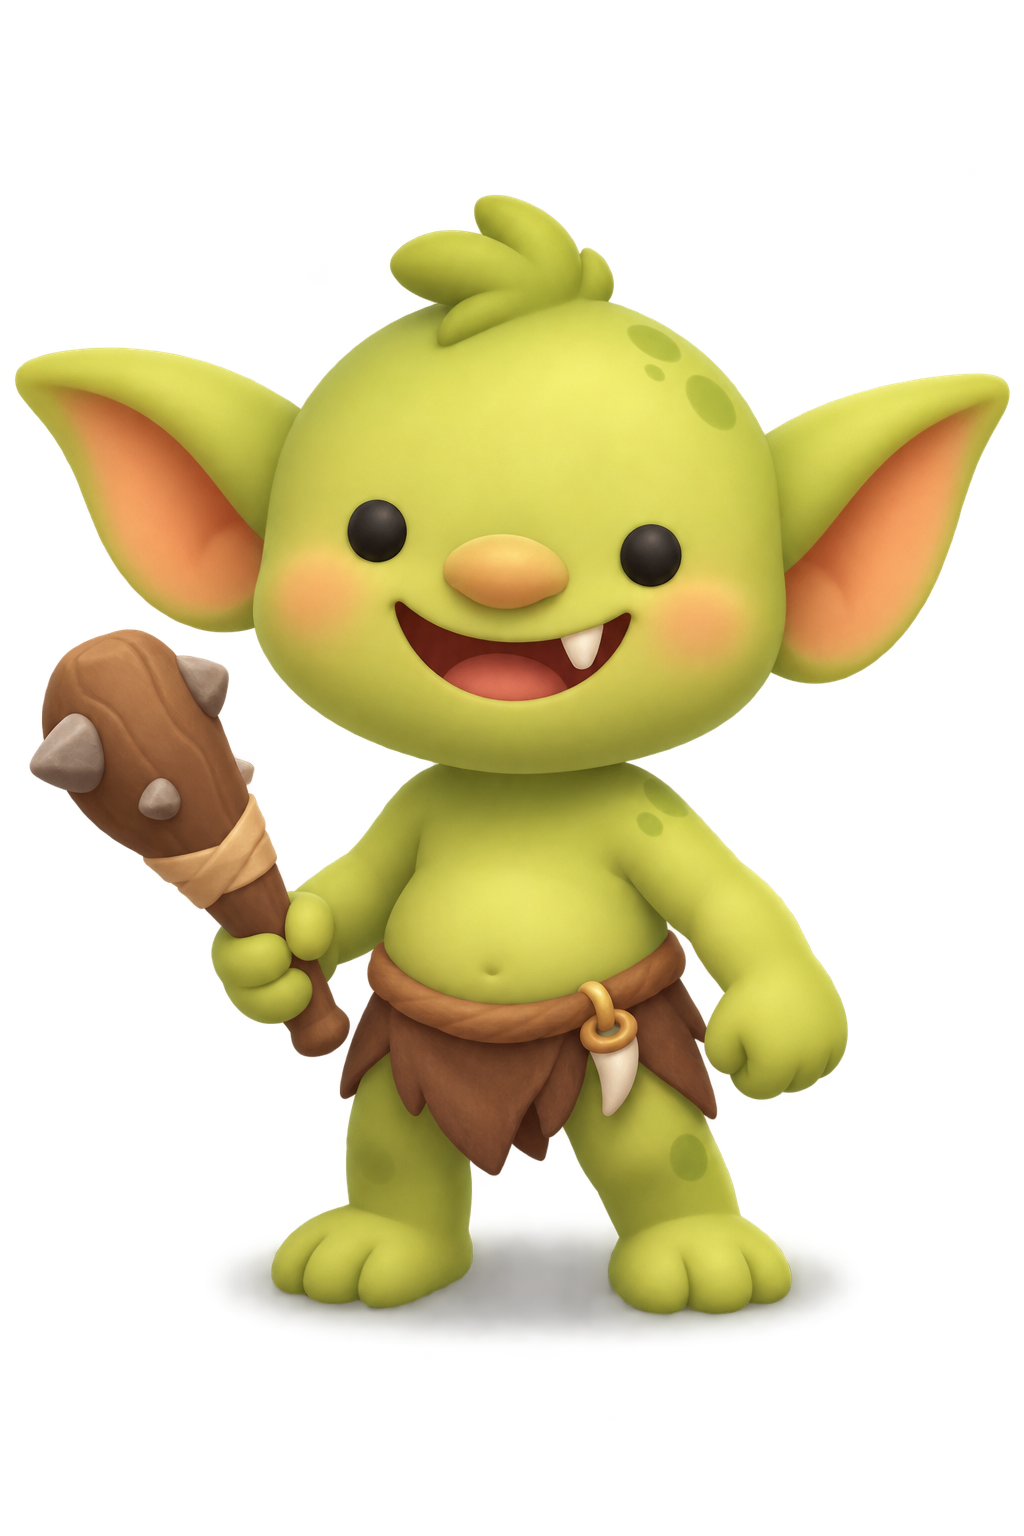
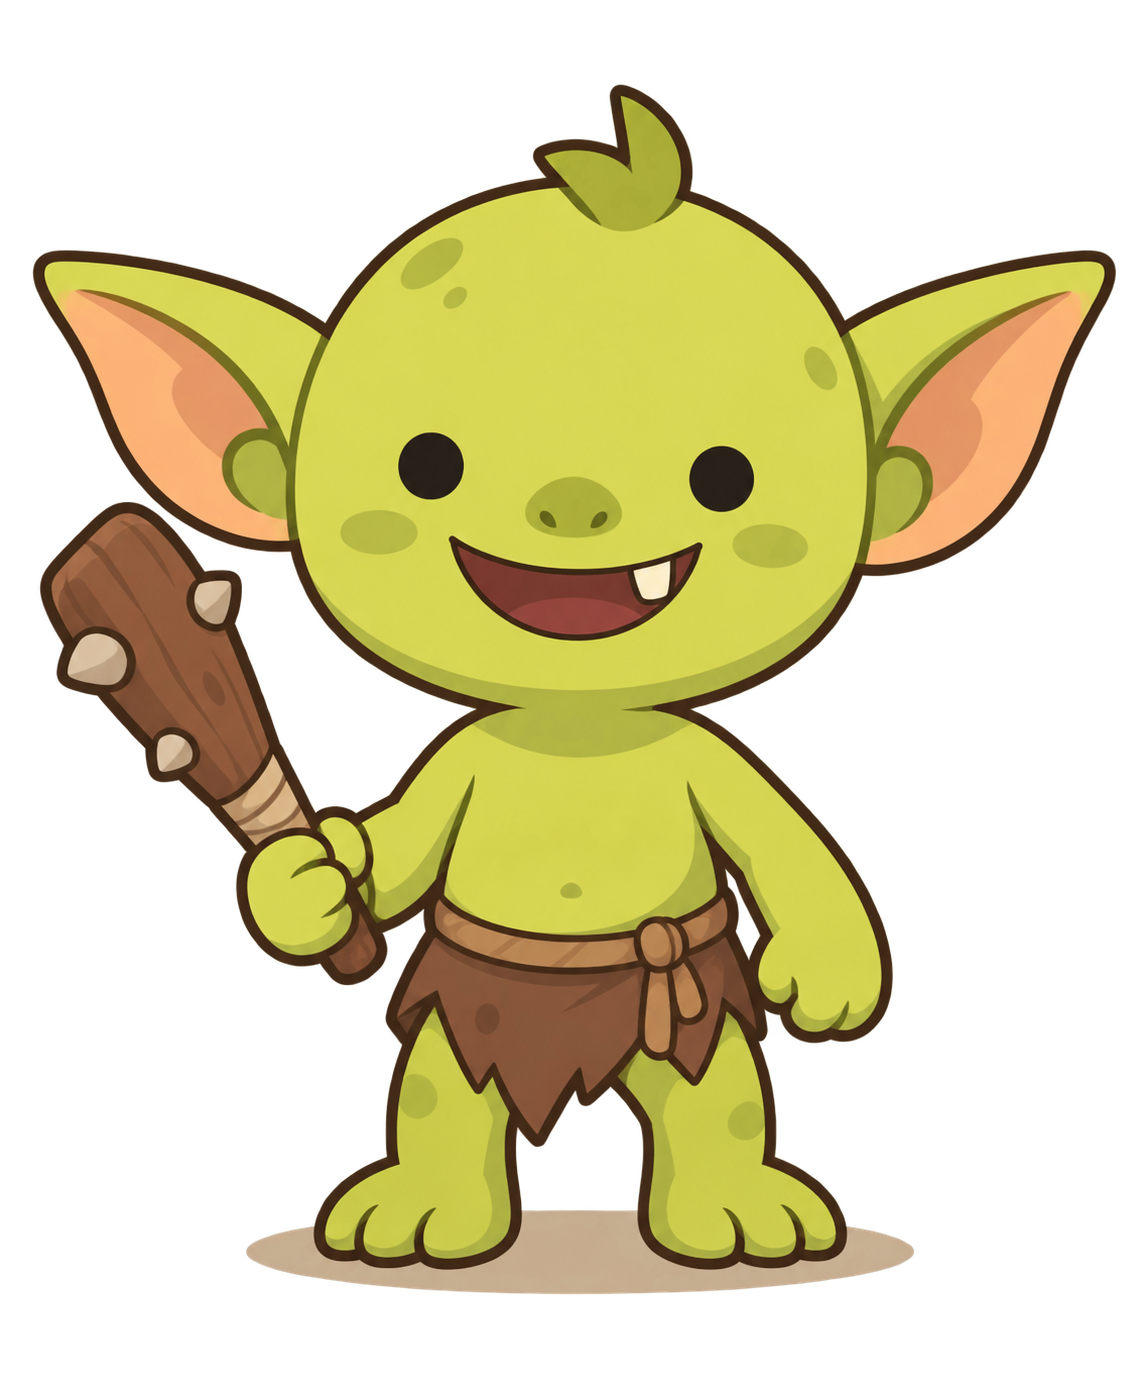
art: v3.2角色描边+更简约——哥布林三版重生成（用户纠偏：需描边/要简约），拼图验收均9分

diff --git a/.agents/skills/mh-art/scripts/gen_asset.py b/.agents/skills/mh-art/scripts/gen_asset.py
@@ -37,21 +37,18 @@ ARCHIVE_ROOT = os.path.join(REVIEW_ROOT, "_archived")
 ASSETS_ROOT = os.path.join("docs", "design", "assets")
 
 # ---- 项目规格表（与 SKILL.md 保持同步）----
-# 风格 v3.1（2026-08-25，已拍板）：v1 暗黑厚涂、v2/v2.1 温暖绘本水彩相继被否决；
-# v3 扁平卡通首批样张被指"人物和卡牌不像"（参照 Unity Asset Store「2D Characters -
-# Casual Monsters」LAYERLAB）。与参考图逐项对比后修正三处病根：①v3 生成带粗深描边
-# →参考无描边，靠柔和暗部分界；②v3 硬边两色阶赛璐璐→参考是柔和渐变+浅椭圆投影
-# （软笔刷体积感，2-3 个明度）；③v3 饱和度高明度低→参考中饱和、高明度、清新淡彩。
-# 造型基准：2-2.5 头身、豆形身体、短粗四肢、极简面部。功能色板保留。
-STYLE_BASE = ("smooth soft-shaded 2D cartoon game art like premium casual mobile-game asset packs, "
-              "clean rounded shapes with NO outline strokes (edges separated by soft shading only), "
-              "soft airbrushed gradients giving gentle rounded volume, subtle ambient occlusion, "
-              "2-3 soft value steps per shape, soft elliptical drop shadow under objects, "
-              "fresh airy palette: pastel mint-teal, cream and light warm brown with muted gold accents, "
-              "medium saturation and light values, low contrast, memory-palace scholar fantasy theme, "
-              "cute friendly casual mood, "
-              "no outlines, no cel-shaded hard shadow edges, no watercolor, no painterly texture, "
-              "no gritty texture, no realistic rendering, no dark heavy colors, no hardcore mood")
+# 风格 v3.2（2026-08-25，用户直接反馈修正）：v3.1 三版哥布林被用户点评
+# "不够简约，角色需要描边"——推翻此前视觉模型"参考无描边"的读图结论（模型读图
+# 只作参考，用户的眼是标准）。v3.2 两处修正：①角色/图标/卡面主体要有干净、
+# 粗细一致的深色细描边；②整体更简约——细节再砍、每形状少量平色。
+# 保留：软渐变阴影、清新中饱和高明度、2-2.5 头身豆形身体、点眼单小方牙 DNA。
+STYLE_BASE = ("clean simple 2D cartoon game art for casual mobile games, big rounded shapes, cute "
+              "stylized proportions, very minimal design with only a few details, fresh airy "
+              "palette: pastel mint-teal, cream and light warm brown with muted gold accents, "
+              "medium saturation and light values, soft simple shading, memory-palace scholar "
+              "fantasy theme, friendly casual mood, "
+              "no watercolor, no painterly texture, no realistic rendering, no dark heavy "
+              "colors, no complex details, no busy props")
 
 # 发布目录（实际应用区）：扁平无子目录——文件名自带类别前缀（prefix 字段），
 # 发布时按前缀校验命名规范；仅 docs 文档仓库适用，勿再按类型嵌套。
@@ -61,56 +58,61 @@ SPECS = {
                  style="vertical card illustration presented like a game-asset showcase: one cute "
                        "clear focal subject standing centered on a simple soft ground, plain "
                        "pastel mint-cream backdrop with a soft elliptical shadow under the subject, "
-                       "minimal simple props, lots of clean empty space, no text, no watermark"),
+                       "subject drawn with a clean thin dark outline and very few details, minimal "
+                       "simple props, lots of clean empty space, no text, no watermark"),
     "cardback": dict(size="1024x1536", transparent=False, resize=None,
                      review="cardbacks", prefix="cardback_",
                      style="full playing-card back design filling the whole canvas, symmetric cute "
-                           "emblem at center drawn with smooth soft shading and no outlines, chunky "
-                           "rounded border with simple rounded ornaments, soft gradient color field, "
-                           "clean smooth finish, no text, no watermark"),
+                           "emblem at center with a clean thin dark outline, chunky rounded border "
+                           "with simple rounded ornaments, soft gradient color field, very minimal "
+                           "detail, clean smooth finish, no text, no watermark"),
     "icon": dict(size="1024x1024", transparent=True, resize="256x256",
                  review="icons", prefix="icon_",
-                 style="smooth soft-shaded casual game icon, single object only, centered, bold rounded "
-                       "silhouette instantly readable at small size, soft gradient shading, plain "
-                       "transparent background, no text, no watermark"),
+                 style="simple casual game icon, single object only, centered, bold rounded "
+                       "silhouette instantly readable at small size, clean thin dark outline, "
+                       "few flat colors with soft simple shading, plain transparent background, "
+                       "no text, no watermark"),
     "relic": dict(size="1024x1024", transparent=True, resize="256x256",
                   review="relics", prefix="relic_",
-                  style="smooth soft-shaded casual game icon of a single small magical artifact, "
-                        "centered, cute stylized prop with bold rounded silhouette, soft gradient "
-                        "shading, no outlines, plain transparent background, no text, no watermark"),
+                  style="simple casual game icon of a single small magical artifact, centered, "
+                        "cute stylized prop with bold rounded silhouette, clean thin dark outline, "
+                        "few flat colors with soft simple shading, plain transparent background, "
+                        "no text, no watermark"),
     "potion": dict(size="1024x1024", transparent=True, resize="256x256",
                    review="potions", prefix="potion_",
-                   style="smooth soft-shaded casual game icon of a single cute alchemy potion bottle, "
-                         "centered, bold rounded silhouette, soft glossy gradient shading, no "
-                         "outlines, plain transparent background, no text, no watermark"),
+                   style="simple casual game icon of a single cute alchemy potion bottle, centered, "
+                         "bold rounded silhouette, clean thin dark outline, few flat colors with "
+                         "soft simple shading, plain transparent background, no text, no watermark"),
     "node": dict(size="1024x1024", transparent=True, resize="256x256",
                  review="map-nodes", prefix="node_",
-                    style="smooth soft-shaded casual map node emblem, single centered object, bold "
-                          "rounded shape, soft gradient shading, no outlines, plain transparent "
+                    style="simple casual map node emblem, single centered object, bold rounded "
+                          "shape, clean thin dark outline, few flat colors, plain transparent "
                           "background, no text, no watermark"),
     "enemy": dict(size="1024x1024", transparent=True, resize=None,
                   review="enemies", prefix="enemy_",
-                  style="single cute casual-cartoon fantasy monster like a premium asset-pack "
-                        "showcase render, full body, centered, facing viewer, 2 to 2.5 head-heights "
-                        "tall, bean-shaped rounded body, short stubby limbs, very simple face, "
-                        "smooth soft-shaded volume with NO outlines, soft elliptical shadow under "
-                        "feet, plain transparent background, no text, no watermark"),
+                  style="single cute simple cartoon fantasy monster, full body, centered, facing "
+                        "viewer, 2 to 2.5 head-heights tall, bean-shaped rounded body, stubby "
+                        "limbs, very simple dot eyes, extremely minimal design with only a few "
+                        "flat colors, clean thin dark outline around the whole character with "
+                        "consistent line weight, soft simple shading, soft elliptical ground "
+                        "shadow, plain transparent background, no text, no watermark"),
     "portrait": dict(size="1024x1536", transparent=True, resize=None,
                      review="portraits", prefix="portrait_",
-                     style="full body cute casual-cartoon character like a premium asset-pack "
-                           "showcase render, centered, facing viewer, 2 to 2.5 head-heights tall, "
-                           "bean-shaped rounded body, short stubby limbs, very simple face, smooth "
-                           "soft-shaded volume with NO outlines, transparent background, "
+                     style="full body cute simple cartoon character, centered, facing viewer, "
+                           "2 to 2.5 head-heights tall, bean-shaped rounded body, stubby limbs, "
+                           "very simple dot eyes, extremely minimal design with only a few flat "
+                           "colors, clean thin dark outline around the whole character with "
+                           "consistent line weight, soft simple shading, transparent background, "
                            "no text, no watermark"),
     "background": dict(size="2048x1152", transparent=False, resize="1920x1080",
                        review="backgrounds", prefix="bg_",
-                       style="wide soft-shaded cartoon scene for a casual game, simple stylized "
-                             "environment built from big rounded shapes with smooth soft gradients, "
-                             "fresh airy palette, gentle depth, empty center area for UI, "
-                             "no characters, no text, no watermark"),
+                       style="wide simple cartoon scene for a casual game, very minimal, big "
+                             "rounded shapes in few flat colors with soft gradients, fresh airy "
+                             "palette, gentle depth, large empty areas, empty center for UI, "
+                             "no outlines on scenery, no characters, no text, no watermark"),
     "texture": dict(size="1024x1024", transparent=False, resize="256x256",
                     review="textures", prefix="texture_",
-                    style="seamless tileable soft cartoon texture, evenly lit, no vignette, "
+                    style="seamless tileable simple cartoon texture, evenly lit, no vignette, "
                           "no shadows at edges, no text, no watermark"),
 }
 

diff --git a/.agents/skills/mh-art/SKILL.md b/.agents/skills/mh-art/SKILL.md
@@ -50,16 +50,16 @@ description: 《记忆勇者》设计文档仓库专属 AI 生图——按 docs/
 
 源自 [09-UI设计规范 §1](../../../docs/design/09-UI设计规范.md)「记忆殿堂」视觉定位：记忆殿堂主题 + 古金点缀。所有 prompt 以此为底，保证新旧资产同风格。
 
-> **风格 v3.1（2026-08-25）**：v1 暗黑厚涂、v2/v2.1 温暖绘本水彩相继被否决；v3 扁平卡通首批样张被指"风格还是不太像，尤其是人物和卡牌"（参照 Unity Asset Store「2D Characters - Casual Monsters」LAYERLAB）。将参考图与生成图**拼图逐项对比**后修正三处病根：①v3 生成带 3-6px 粗深描边 → 参考无描边，靠柔和暗部分界；②v3 硬边两色阶赛璐璐 → 参考是柔和渐变+浅椭圆投影（软笔刷体积感，2-3 个明度）；③v3 饱和度高明度低、浓郁厚重 → 参考中饱和、高明度、清新淡彩。造型基准：2-2.5 头身、豆形身体、短粗四肢、极简面部；卡面走"素材展示"构图（纯色淡青底+简单地面+柔和椭圆投影），不画叙事场景。功能色板保留；09/10 文档的明快 UI 色不受影响。
+> **风格 v3.2（2026-08-25）**：v3.1 三版哥布林被用户点评"**不够简约，角色需要描边**"——推翻视觉模型"参考无描边"的读图结论（模型读图只作参考，用户的眼是标准）。两处修正：①角色/图标/卡面主体要有**干净、粗细一致的深色细描边**（背景景物仍无描边）；②整体**更简约**——细节再砍、少量平色、物件最少化。保留：软渐变阴影、清新中饱和高明度、2-2.5 头身豆形身体、点眼单小方牙 DNA、素材展示式卡面构图。功能色板与明快 UI 色不变。
 
-- **全局基线（EN，拼在最前）**：`smooth soft-shaded 2D cartoon game art like premium casual mobile-game asset packs, clean rounded shapes with NO outline strokes (edges separated by soft shading only), soft airbrushed gradients giving gentle rounded volume, subtle ambient occlusion, 2-3 soft value steps per shape, soft elliptical drop shadow under objects, fresh airy palette: pastel mint-teal, cream and light warm brown with muted gold accents, medium saturation and light values, low contrast, memory-palace scholar fantasy theme, cute friendly casual mood, no outlines, no cel-shaded hard shadow edges, no watercolor, no painterly texture, no gritty texture, no realistic rendering, no dark heavy colors, no hardcore mood`
-- **卡面**：`vertical card illustration presented like a game-asset showcase: one cute clear focal subject standing centered on a simple soft ground, plain pastel mint-cream backdrop with a soft elliptical shadow under the subject, minimal simple props, lots of clean empty space, no text, no watermark`
-- **卡背**：`full playing-card back design filling the whole canvas, symmetric cute emblem at center drawn with smooth soft shading and no outlines, chunky rounded border with simple rounded ornaments, soft gradient color field, clean smooth finish, no text, no watermark`（desc 里必须给类型色 hex，见 asset-specs 色板）
-- **图标（icon/relic/potion/node）**：`smooth soft-shaded casual game icon, single object only, centered, bold rounded silhouette instantly readable at small size, soft gradient shading, plain transparent background, no text, no watermark`
-- **敌人**：`single cute casual-cartoon fantasy monster like a premium asset-pack showcase render, full body, centered, facing viewer, 2 to 2.5 head-heights tall, bean-shaped rounded body, short stubby limbs, very simple face, smooth soft-shaded volume with NO outlines, soft elliptical shadow under feet, plain transparent background, no text, no watermark`
-- **角色**：`full body cute casual-cartoon character like a premium asset-pack showcase render, centered, facing viewer, 2 to 2.5 head-heights tall, bean-shaped rounded body, short stubby limbs, very simple face, smooth soft-shaded volume with NO outlines, transparent background, no text, no watermark`
-- **背景**：`wide soft-shaded cartoon scene for a casual game, simple stylized environment built from big rounded shapes with smooth soft gradients, fresh airy palette, gentle depth, empty center area for UI, no characters, no text, no watermark`
-- **纹理**：`seamless tileable soft cartoon texture, evenly lit, no vignette, no shadows at edges, no text`
+- **全局基线（EN，拼在最前）**：`clean simple 2D cartoon game art for casual mobile games, big rounded shapes, cute stylized proportions, very minimal design with only a few details, fresh airy palette: pastel mint-teal, cream and light warm brown with muted gold accents, medium saturation and light values, soft simple shading, memory-palace scholar fantasy theme, friendly casual mood, no watercolor, no painterly texture, no realistic rendering, no dark heavy colors, no complex details, no busy props`
+- **卡面**：`vertical card illustration presented like a game-asset showcase: one cute clear focal subject standing centered on a simple soft ground, plain pastel mint-cream backdrop with a soft elliptical shadow under the subject, subject drawn with a clean thin dark outline and very few details, minimal simple props, lots of clean empty space, no text, no watermark`
+- **卡背**：`full playing-card back design filling the whole canvas, symmetric cute emblem at center with a clean thin dark outline, chunky rounded border with simple rounded ornaments, soft gradient color field, very minimal detail, clean smooth finish, no text, no watermark`（desc 里必须给类型色 hex，见 asset-specs 色板）
+- **图标（icon/relic/potion/node）**：`simple casual game icon, single object only, centered, bold rounded silhouette instantly readable at small size, clean thin dark outline, few flat colors with soft simple shading, plain transparent background, no text, no watermark`
+- **敌人**：`single cute simple cartoon fantasy monster, full body, centered, facing viewer, 2 to 2.5 head-heights tall, bean-shaped rounded body, stubby limbs, very simple dot eyes, extremely minimal design with only a few flat colors, clean thin dark outline around the whole character with consistent line weight, soft simple shading, soft elliptical ground shadow, plain transparent background, no text, no watermark`
+- **角色**：`full body cute simple cartoon character, centered, facing viewer, 2 to 2.5 head-heights tall, bean-shaped rounded body, stubby limbs, very simple dot eyes, extremely minimal design with only a few flat colors, clean thin dark outline around the whole character with consistent line weight, soft simple shading, transparent background, no text, no watermark`
+- **背景**：`wide simple cartoon scene for a casual game, very minimal, big rounded shapes in few flat colors with soft gradients, fresh airy palette, gentle depth, large empty areas, empty center for UI, no outlines on scenery, no characters, no text, no watermark`
+- **纹理**：`seamless tileable simple cartoon texture, evenly lit, no vignette, no shadows at edges, no text`
 
 中文 prompt 同样可用，但保持上述关键词的英文版拼入更稳。
 
